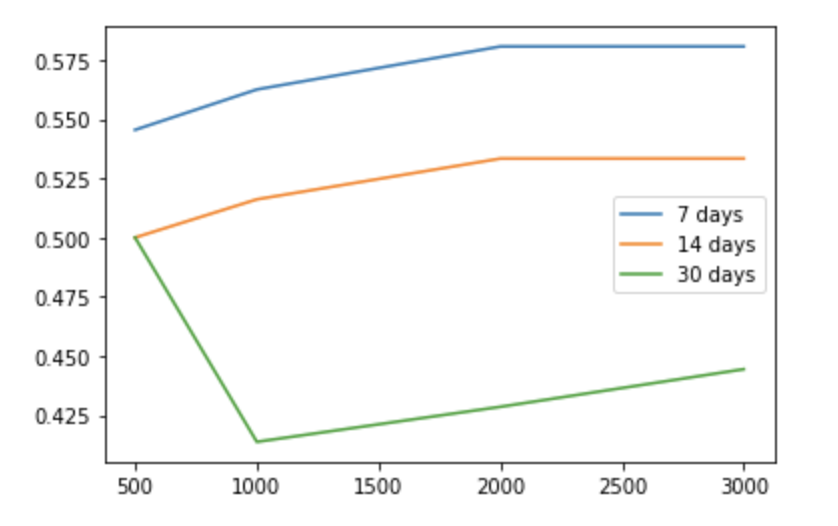
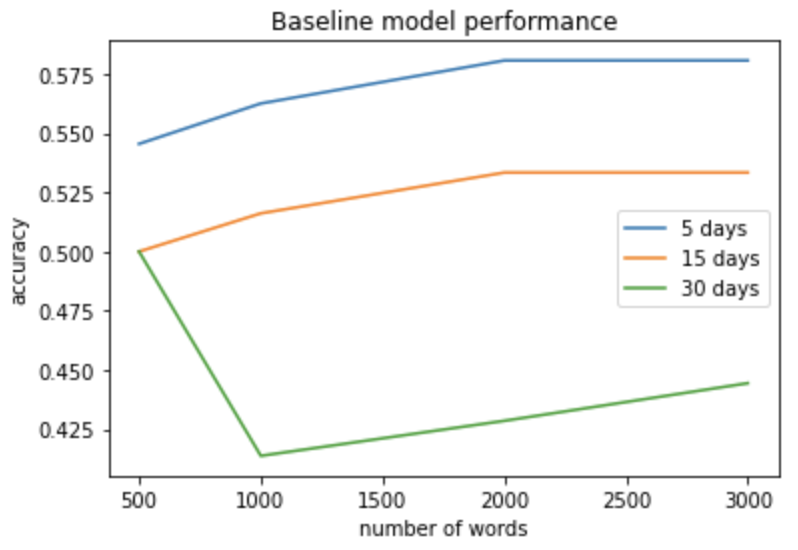
updated files

Changed region(s): [[0.0, 0.0, 0.9925, 0.9734]]

diff --git a/AutoFiNews/index.html b/AutoFiNews/index.html
@@ -50,18 +50,18 @@
 			<div id="main">
 
 			<!-- One -->
-				<section class="wrapper style1">
-					<div class="inner">
-						<header class="align-center">
-							<h2>Introduction</h2>
-							<p>
-								Nowadays, we are seeing a great amount of data generated everywhere. The Data will bring us both challenges and opportunities. As AutoPhrase is developed, an automated and domain-independent phrase mining method, we see its potential to be used on extracting quality phrases from numerous daily financial news and editorials, to improve the current data prediction model using bag-of-words and other conventions as its entry. This experiment could be very promising since it can be a quick classifier of long text reports. Analysts then may use the result as a supportive reason for future investments. Thus, adapting this method could improve the efficiency with the same accuracy if used properly. 
-								In this project, we will give a report of comparison of performances among conventional methods and AutoPhrase on predicting the change of stock price (increase or decrease). We will also include the comparison between the performances of AutoPhrase and deep learning methods on predicting the change of the stock price. 
-							</p>
-						</header>
-						
-					</div>
-				</section>
+			<section class="wrapper style1">
+				<div class="inner">
+					<header class="align-center">
+						<h2>Introduction</h2>
+						<p>
+							Nowadays, we are seeing a great amount of data generated everywhere. The Data will bring us both challenges and opportunities. As AutoPhrase is developed, an automated and domain-independent phrase mining method, we see its potential to be used on extracting quality phrases from numerous daily financial news and editorials, to improve the current data prediction model using bag-of-words and other conventions as its entry. This experiment could be very promising since it can be a quick classifier of long text reports. Analysts then may use the result as a supportive reason for future investments. Thus, adapting this method could improve the efficiency with the same accuracy if used properly. 
+							In this project, we will give a report of comparison of performances among conventional methods and AutoPhrase on predicting the change of stock price (increase or decrease). We will also include the comparison between the performances of AutoPhrase and deep learning methods on predicting the change of the stock price. 
+						</p>
+					</header>
+					
+				</div>
+			</section>
 
 			<!-- Two -->
 			<section class="wrapper style1">
@@ -69,11 +69,13 @@
 					<header class="align-center">
 						<h2>Baseline Model</h2>
 						<p>
-							Nowadays, we are seeing a great amount of data generated everywhere. The Data will bring us both challenges and opportunities. As AutoPhrase is developed, an automated and domain-independent phrase mining method, we see its potential to be used on extracting quality phrases from numerous daily financial news and editorials, to improve the current data prediction model using bag-of-words and other conventions as its entry. This experiment could be very promising since it can be a quick classifier of long text reports. Analysts then may use the result as a supportive reason for future investments. Thus, adapting this method could improve the efficiency with the same accuracy if used properly. 
-							In this project, we will give a report of comparison of performances among conventional methods and AutoPhrase on predicting the change of stock price (increase or decrease). We will also include the comparison between the performances of AutoPhrase and deep learning methods on predicting the change of the stock price. 
+							We used the Bag-of-Words method to generate the baseline model. After removing stopwords, removing punctuation, and stemming the text, we performed Bag-of-Words to get the top n words with the highest frequencies. Then we compare the extracted words with positive and negative words in the financial news dataset. If the number of positive words is larger than that of negative words in a document, we give the output as 1. Otherwise we give 0.
 						</p>
 						<img src="images/bow.png" alt="Italian Trulli" width="450" height="300">
 					</header>
+					<body>
+						From the graph above, we could see that when using top 2000 words to predict the stock price 5 days after the news published, we get the best performance ~0.58. When predicting the stock price change after 30 days, the performance was poor as the accuracy dropped to below ~0.5.
+					</body>
 				</div>
 			</section>
 
@@ -84,11 +86,18 @@
 					<header class="align-center">
 						<h2>AutoPhrase Model</h2>
 						<p>
-							Nowadays, we are seeing a great amount of data generated everywhere. The Data will bring us both challenges and opportunities. As AutoPhrase is developed, an automated and domain-independent phrase mining method, we see its potential to be used on extracting quality phrases from numerous daily financial news and editorials, to improve the current data prediction model using bag-of-words and other conventions as its entry. This experiment could be very promising since it can be a quick classifier of long text reports. Analysts then may use the result as a supportive reason for future investments. Thus, adapting this method could improve the efficiency with the same accuracy if used properly. 
-							In this project, we will give a report of comparison of performances among conventional methods and AutoPhrase on predicting the change of stock price (increase or decrease). We will also include the comparison between the performances of AutoPhrase and deep learning methods on predicting the change of the stock price. 
+							After building the baseline model, we tried to explore more methods to predict the change of stock price. Instead of using native methods like Bag-of-Words to extract the words in articles, we considered to extract high-quality phrases. Therefore, we utilized AutoPhrase to perform phrase mining tasks. AutoPhrase is a framework that extracts quality phrases from text. After running AutoPhrase, we will get the top high-quality phrases in an article with their scores. We will then use the positive and negative word lists to determine the attitude of the words. Finally, we use the scores and their attitude to predict the stock price change. 
 						</p>
-						<img src="images/bow.png" alt="Italian Trulli" width="450" height="300">
+						<img src="images/autophrase_7d.png" alt="Italian Trulli" width="450" height="300">
+						<img src="images/autophrase_14d.png" alt="Italian Trulli" width="450" height="300">
+						<img src="images/autophrase_30d.png" alt="Italian Trulli" width="450" height="300">
+						
 					</header>
+					<body>
+						<p>
+							We tried to predict the stock price change (1 = increase and 0 = decrease) after 5 days, 15 days, and 30 days after the published day of the news and got f1-scores 0.64, 0.60, 0.58 respectively. From the confusion matrices above, we could see that the model performs relatively well when the ground truth label is 1. 
+						</p>
+					</body>
 				</div>
 			</section>
 
@@ -98,11 +107,18 @@
 					<header class="align-center">
 						<h2>Doc2vec & LSTM Model</h2>
 						<p>
-							Nowadays, we are seeing a great amount of data generated everywhere. The Data will bring us both challenges and opportunities. As AutoPhrase is developed, an automated and domain-independent phrase mining method, we see its potential to be used on extracting quality phrases from numerous daily financial news and editorials, to improve the current data prediction model using bag-of-words and other conventions as its entry. This experiment could be very promising since it can be a quick classifier of long text reports. Analysts then may use the result as a supportive reason for future investments. Thus, adapting this method could improve the efficiency with the same accuracy if used properly. 
-							In this project, we will give a report of comparison of performances among conventional methods and AutoPhrase on predicting the change of stock price (increase or decrease). We will also include the comparison between the performances of AutoPhrase and deep learning methods on predicting the change of the stock price. 
+							LSTM stands for Long Short Term Memory Network, and it’s a special version of Recurrent Neural Network. We believe that it could outperform the Baseline model because first of all, there should exist some connections between each financial news and the company’s financial decisions. Besides, The combination of the LSTM model with Doc2vec model also addresses the limitations that Bag-of-Words model has, which are the problem of word order and syntax. We will first obtain our vector embedding matrix from our Doc2vec model, and then we will fit in the embedding matrix as the weight to train our LSTM model, and from that we are able to predict the movement of stock price from specific time span given the financial news articles. 
 						</p>
-						<img src="images/bow.png" alt="Italian Trulli" width="450" height="300">
+						<img src="images/lstm1.png" alt="Italian Trulli" width="320" height="320">
+						<img src="images/lstm2.png" alt="Italian Trulli" width="320" height="320">
+						<img src="images/lstm3.png" alt="Italian Trulli" width="320" height="320">
+						<img src="images/lstm4.jpeg" alt="Italian Trulli" width="320" height="320">
 					</header>
+					<body>
+						<p>
+							From the confusion matrices, we can see that the accuracy is relatively high, but it is mostly due to the insufficient amount of the training and testing datasets we have. However, we also try to apply the model on a larger dataset for sentiment analysis of the financial news title, which also has the binary labels. The output is relatively normal and gives an accuracy of 0.6107 on the test set and 0.63 on the validation set. Therefore, we believe that this combination of LSTM and Doc2vec model really has the potential to work with financial news and give relatively good predictions.
+						</p>
+					</body>
 				</div>
 			</section>
 
@@ -112,11 +128,16 @@
 					<header class="align-center">
 						<h2>BERT Model</h2>
 						<p>
-							Nowadays, we are seeing a great amount of data generated everywhere. The Data will bring us both challenges and opportunities. As AutoPhrase is developed, an automated and domain-independent phrase mining method, we see its potential to be used on extracting quality phrases from numerous daily financial news and editorials, to improve the current data prediction model using bag-of-words and other conventions as its entry. This experiment could be very promising since it can be a quick classifier of long text reports. Analysts then may use the result as a supportive reason for future investments. Thus, adapting this method could improve the efficiency with the same accuracy if used properly. 
-							In this project, we will give a report of comparison of performances among conventional methods and AutoPhrase on predicting the change of stock price (increase or decrease). We will also include the comparison between the performances of AutoPhrase and deep learning methods on predicting the change of the stock price. 
+							BERT, as our state-of-the-art algorithm, outperforms any existing model in sentiment analysis by far. Our hypothesis is a relative version of sentiment analysis. We use a sentiment analysis pre-trained model and map positive labels to forecast an increase of the stock, and negative labels to forecast a decrease of the stock.
 						</p>
-						<img src="images/bow.png" alt="Italian Trulli" width="450" height="300">
+						<img src="images/bert1.jpeg" alt="Italian Trulli" width="500" height="300">
+						<img src="images/bert2.jpeg" alt="Italian Trulli" width="500" height="300">
 					</header>
+					<body>
+						<p>
+							As we see, this model gives 85% accuracy and reaches a very promising batch MCC score goes to 0.710. This means we are predicting at least 71% correct. This result indeed supports that NLP is a great help in constructing stock predictors, and is very promising in the future.
+						</p>
+					</body>
 				</div>
 			</section>
 
@@ -124,16 +145,14 @@
 			<section class="wrapper style1">
 				<div class="inner">
 					<header class="align-center">
-						<h2>Discussion & Conlusion</h2>
+						<h2>Discussion & Conclusion</h2>
 						<p>
-							Nowadays, we are seeing a great amount of data generated everywhere. The Data will bring us both challenges and opportunities. As AutoPhrase is developed, an automated and domain-independent phrase mining method, we see its potential to be used on extracting quality phrases from numerous daily financial news and editorials, to improve the current data prediction model using bag-of-words and other conventions as its entry. This experiment could be very promising since it can be a quick classifier of long text reports. Analysts then may use the result as a supportive reason for future investments. Thus, adapting this method could improve the efficiency with the same accuracy if used properly. 
-							In this project, we will give a report of comparison of performances among conventional methods and AutoPhrase on predicting the change of stock price (increase or decrease). We will also include the comparison between the performances of AutoPhrase and deep learning methods on predicting the change of the stock price. 
+							Based on our experiments, the BERT model outperforms other models by far, whose accuracy was higher than 0.7. AutoPhrase model and LSTM model got the accuracy around 0.63, which met out expectations. However, one problem was that the size of our training and test data was relatively small, and we were only able to apply the models on Apple Inc. due to time limitations. The models could still be improved with more data.
 						</p>
-						<img src="images/bow.png" alt="Italian Trulli" width="450" height="300">
 					</header>
 				</div>
 			</section>
-				
+			
 			
 				
 
